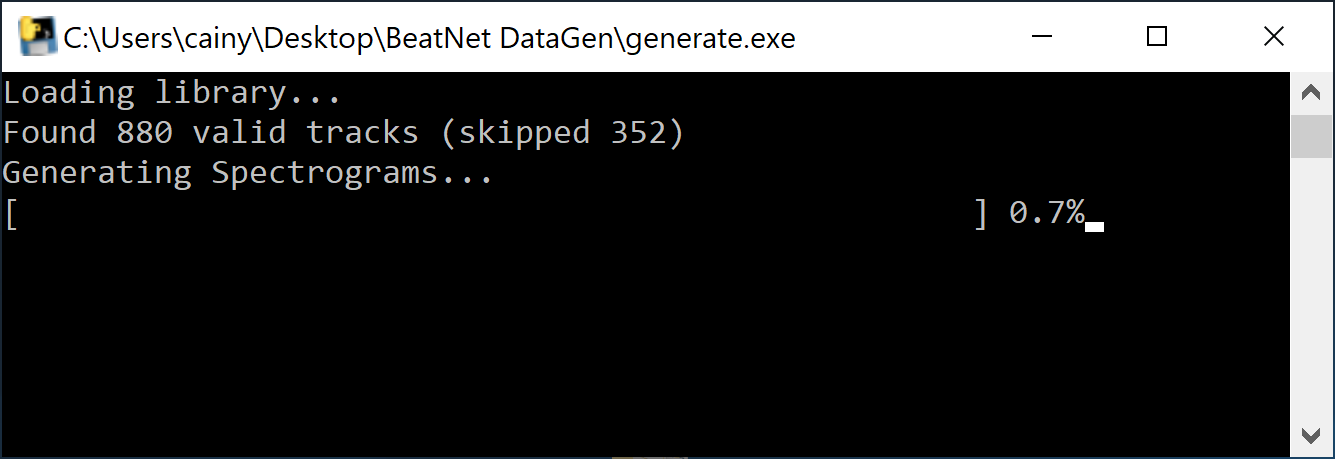
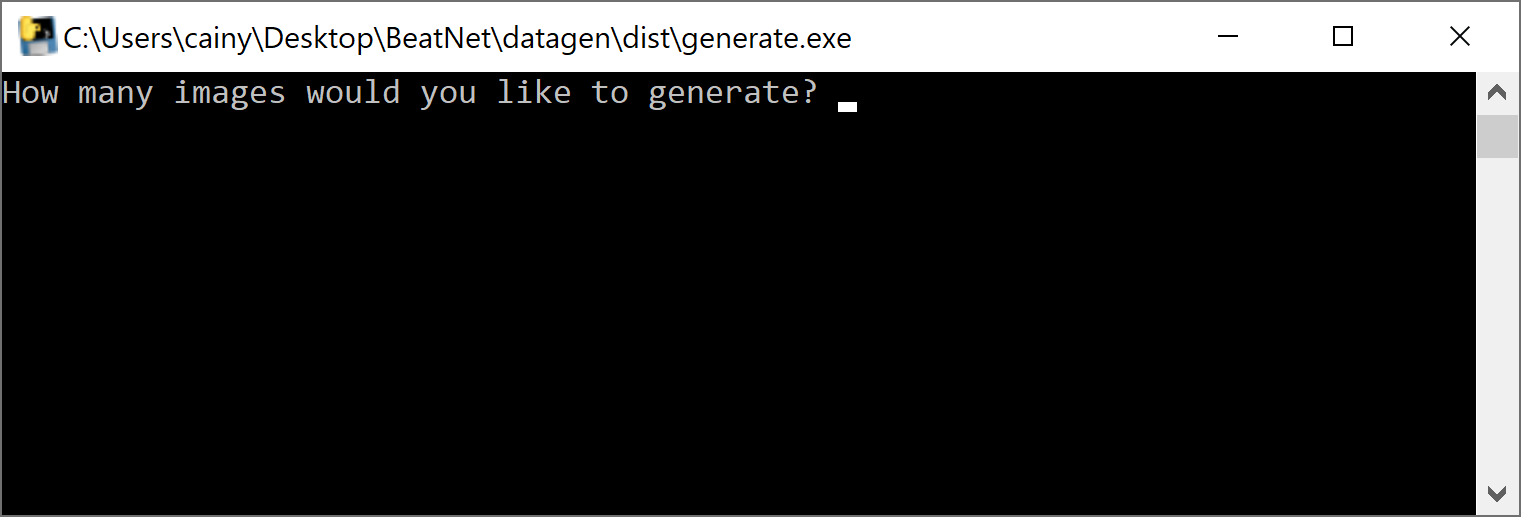
Simplify datagen program for users

diff --git a/datagen/generate.py b/datagen/generate.py
@@ -11,6 +11,7 @@ from multiprocessing.dummy import Pool as ThreadPool
 FRAME_RATE = 22050
 CHUNK_SIZE = FRAME_RATE * 2
 BUFFER = FRAME_RATE * 5
+PROGRESS_BAR_SIZE = 50
 
 class Track:
     def __init__(self, trackid, location, bpm):
@@ -36,7 +37,7 @@ class Track:
 def load_tracks(lib_xml_file):
     tree = ET.parse(lib_xml_file)
     root = tree.getroot()
-    tracks = {}
+    tracks = []
 
     valid = 0
     skipped = 0
@@ -49,39 +50,28 @@ def load_tracks(lib_xml_file):
             continue
         valid += 1
             
-        bpm = float(track.find('TEMPO').get('Bpm'))
-        idx = int(bpm)
-        
-        if idx not in tracks.keys():
-            tracks[idx] = []
-            
-        tracks[idx].append(Track(
+        tracks.append(Track(
             trackid.get('Key'),
             location,
-            bpm
+            track.find('TEMPO').get('Bpm')
             ))
     print("Found %d valid tracks (skipped %d)" % (valid, skipped))
     return tracks
 
 def generate_samples(lib_xml_file='lib.xml', n=1000):
-    n = int(n)
-
-    if (os.path.isfile(lib_xml_file) == False):
-        sys.exit('Library file not found: "%s"' % lib_xml_file)
-    
     print('Loading library...')
     tracks = load_tracks(lib_xml_file)
 
     print('Generating Spectrograms...')
     for i in range(n):
-        idx = np.random.choice(list(tracks.keys()))
-        track = np.random.choice(tracks[idx])
+        track = np.random.choice(tracks)
         track.generate_random_specgram()
-        progress = i / n * 100.0
-        print('\r[%s%s] %3.1f%%' % ('=' * int(progress/2),
-                                    ' ' * (50 - int(progress/2)),
-                                    progress),
-              end='', flush=True)
+        progress = i / n
+        print('\r[%s%s] %3.1f%%' % (
+            '=' * int(PROGRESS_BAR_SIZE * progress),
+            ' ' * (PROGRESS_BAR_SIZE - int(PROGRESS_BAR_SIZE * progress)),
+            progress * 100
+            ), end='', flush=True)
     
     print('\nDone.')
 
@@ -91,6 +81,18 @@ if __name__ == "__main__":
     except FileExistsError:
         # directory already exists
         pass
+
+    lib_path = ''
+    for file in os.listdir('./'):
+        if not file.endswith('.xml'): continue
+        lib_path = file
+
+    if not os.path.isfile(lib_path):
+        input("Library file not found, press any key to exit...")
+        sys.exit(0)
+
+    n = int(input("How many images would you like to generate? "))
     
-    argv = sys.argv[1:]
-    generate_samples(*argv)
+    generate_samples(lib_path, n)
+    input("Finished. Press any key to close...")
+    sys.exit(0)

diff --git a/datagen/README.md b/datagen/README.md
@@ -6,6 +6,7 @@
 
 2. Open up your Rekordbox software, create a new playlist named "BEATNET" and add as many tracks as you can that meet the following criterea:
 	- The BPM is accurate throughout the entire track. Only tracks with a constant, unchanging BPM throughout the entire track can be used.
+	- The BPM is between 70 and 180.
 	- There are no long periods of silence in the track (other than the first or last 5 seconds).
 	- Selecting a broad range of BPMs is more important that selecting lots of tracks at the same BPM.
 
@@ -23,23 +24,11 @@
 
 	<img src="screenshots/step5.png" width="600" />
 	
-6. After a short wait, you should see a window like the one shown below. It will probably take around 30 minutes to finish running, possibly even longer.
+6. After a short wait, you should see a window like the one shown below. Please enter a number of images to produce and hit enter. At least 1000 is recommended which will likely take around 30 minutes to complete.
 
 	<img src="screenshots/step6.png" width="600" />
 
 7. Once the generator has finished the window will close and you should see a new directory named **specgrams** in the folder from earlier. This is the generated data, you should zip up this folder before sending it.
-
-## Advanced Options
-
-You can run the generator from the command line in order to configure the location of the library file and the number of training images to produce. To do so first press **Windows Key + R** to open the run dialogue. Now type **cmd** into the text box and hit enter. Navigate to the working directory using the following command:
-
-    > cd "C:/Users/cainy/Desktop/BeatNet DataGen"
-	
-Don't forget to change the directory location shown above to wherever you extracted the zip file from step 1.
-
-Now, to run the generator, simply use the following command, changing the values according to your needs.
-
-    > ./generator.exe lib.xml 1000
 	
 ## Running From Source
 
@@ -64,8 +53,5 @@ $ pip install -r requirements.txt
 4. Run the `generate.py` script.
 
 ```bash
-$ python generate.py [library_location] [images_to_produce]
-
-# Default values...
-$ python generate.py lib.xml 1000
+$ python generate.py
 ```
